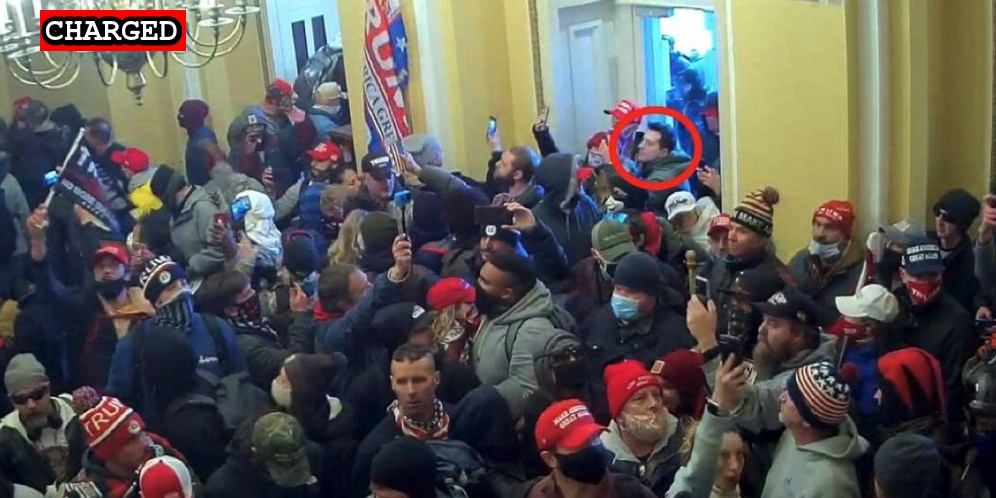
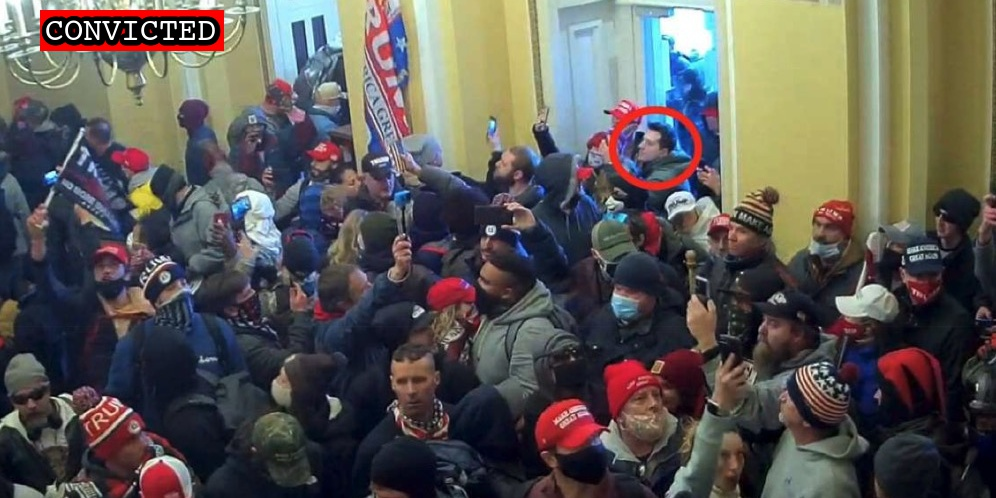
Latest import

Changed region(s): [[0.0311, 0.0, 0.249, 0.1205]]

diff --git a/commands/suspect-import.ts b/commands/suspect-import.ts
@@ -202,6 +202,10 @@ const importDoj = async (nameSet: Set<string>) => {
       continue;
     }
 
+    if (name === "AMBROSE, Lawerence Louis") {
+      name = "AMBROSE, Lawrence";
+    }
+
     if (name == "GALLGHER, Thomas") {
       name = "GALLAGHER, Thomas";
     }

diff --git a/docs/_suspects/john-gordon.md b/docs/_suspects/john-gordon.md
@@ -4,16 +4,16 @@ lastName: Gordon
 hashtag: InGodITrustRioter
 aka:
 residence: West Virginia
-status: Charged
+status: Convicted
 date: 2022-07-01
 charged: 2022-07-01
 indicted:
-convicted:
+convicted: 2022-10-28
 acquitted:
 sentenced:
 dismissed:
 deceased:
-plea_hearing:
+plea_hearing: 2022-10-28
 trial_date:
 trial_type:
 sentencing:
@@ -35,14 +35,22 @@ description: Click for latest case details. Suspects innocent until proven guilt
 author: seditiontrack
 layout: suspect
 published: true
-caseNumber: 21-cr-0342
+caseNumber: 22-cr-0343
 caseName:
 judge:
 videos:
 charges:
+  - code: 18 USC § 231(a)(3)
+    title: Obstruction of Law Enforcement During Civil Disorder
+    url: https://www.law.cornell.edu/uscode/text/18/231
+    felony: true
 sentence:
 ---
+
 - [News Report](https://www.cbsnews.com/pittsburgh/news/west-virginia-man-charged-with-felony-in-us-capitol-riot/)
 - [Complaint](https://www.justice.gov/usao-dc/case-multi-defendant/file/1518436/download)
 - [Statement of Facts](https://www.justice.gov/usao-dc/case-multi-defendant/file/1518441/download)
 - [DOJ Press Release](https://www.justice.gov/usao-dc/pr/west-virginia-man-arrested-actions-lower-west-terrace-during-jan-6-capitol-breach)
+- [Information](https://www.justice.gov/usao-dc/case-multi-defendant/file/1547996/download)
+- [Plea Agreement](https://www.justice.gov/usao-dc/case-multi-defendant/file/1547986/download)
+- [Statement of Offense](https://www.justice.gov/usao-dc/case-multi-defendant/file/1547991/download)

diff --git a/docs/_suspects/joshua-haynes.md b/docs/_suspects/joshua-haynes.md
@@ -4,11 +4,11 @@ lastName: Haynes
 hashtag: HarleySmashAOM
 aka:
 residence: Virginia
-status: Indicted
+status: Convicted
 date: 2021-07-01
 charged: 2021-07-01
 indicted: 2021-09-22
-convicted:
+convicted: 2022-10-28
 acquitted:
 sentenced:
 dismissed:
@@ -40,9 +40,16 @@ caseName: USA v. HAYNES
 judge: Tanya S. Chutkan
 videos:
 charges:
+  - code: 18 USC § 1512(c)(2),2
+    title: Obstruction of an Official Proceeding (Aiding and Abetting)
+    url: https://www.law.cornell.edu/uscode/text/18/1512
+    felony: true
 sentence:
 ---
+
 - [News Report](https://www.msn.com/en-us/news/crime/covington-man-arrested-charged-in-connection-with-capitol-attacks/ar-AALG1lP)
 - [Statement of Facts](https://www.justice.gov/usao-dc/case-multi-defendant/file/1408561/download)
 - [Incriminating Evidence (VIDEO)](https://vimeo.com/498179103)
-- [Indictment](https://extremism.gwu.edu/sites/g/files/zaxdzs2191/f/Joshua%20Dillon%20Haynes%20Indictment.pdf)
+- [Indictment](https://www.justice.gov/usao-dc/case-multi-defendant/file/1547981/download)
+- [Plea Agreement](https://www.justice.gov/usao-dc/case-multi-defendant/file/1547971/download)
+- [Statement of Offense](https://www.justice.gov/usao-dc/case-multi-defendant/file/1547976/download)

diff --git a/docs/_suspects/lawrence-ambrose.md b/docs/_suspects/lawrence-ambrose.md
@@ -4,16 +4,16 @@ lastName: Ambrose
 hashtag: MagaButtonMan
 aka:
 residence:
-status: Charged
+status: Convicted
 date: 2022-09-13
 charged: 2022-09-13
 indicted:
-convicted:
+convicted: 2022-10-25
 acquitted:
 sentenced:
 dismissed:
 deceased:
-plea_hearing:
+plea_hearing: 2022-10-25
 trial_date:
 trial_type:
 sentencing: 2023-02-16
@@ -22,7 +22,7 @@ age:
 occupation:
 affiliations:
 jurisdiction: Federal
-image: /images/preview/arrest.jpg
+image: /images/preview/convicted.jpg
 suspect: arrest.jpg
 booking:
 courtroom:
@@ -40,6 +40,12 @@ caseName: USA v. AMBROSE
 judge: Dabney L. Friedrich
 videos:
 charges:
+- code: 40 USC § 5104(e)(2)(G)
+  title: Parading, demonstrating or picketing in a Capitol building
+  url: https://www.law.cornell.edu/uscode/text/40/5104
+  felony: false
 sentence:
 ---
-- [Information](https://storage.courtlistener.com/recap/gov.uscourts.dcd.247234/gov.uscourts.dcd.247234.1.0.pdf)
+- [Information](https://www.justice.gov/usao-dc/case-multi-defendant/file/1548076/download)
+- [Plea Agreement](https://www.justice.gov/usao-dc/case-multi-defendant/file/1548081/download)
+- [Statement of Offense](https://www.justice.gov/usao-dc/case-multi-defendant/file/1548086/download)

diff --git a/docs/_suspects/anthony-moat.md b/docs/_suspects/anthony-moat.md
@@ -4,11 +4,11 @@ lastName: Moat
 hashtag: AnthonyMoat
 aka:
 residence: Pennsylvania
-status: Charged
+status: Convicted
 date: 2021-04-07
 charged: 2021-04-07
 indicted:
-convicted: 
+convicted: 2022-10-28
 acquitted:
 sentenced:
 dismissed: 
@@ -40,9 +40,15 @@ caseName: USA v. MOAT
 judge: Tanya S. Chutkan
 videos:
 charges:
+- code: 40 USC § 5104(e)(2)(G)
+  title: Parading, demonstrating or picketing in a Capitol building
+  url: https://www.law.cornell.edu/uscode/text/40/5104
+  felony: false
 sentence:
 ---
 - [News Report](https://lawandcrime.com/u-s-capitol-siege/prosecutors-file-charges-against-man-who-called-the-fbi-to-say-he-was-there-on-jan-6/)
 - [Complaint](https://www.justice.gov/usao-dc/case-multi-defendant/file/1385896/download)
 - [Statement of Facts](https://www.justice.gov/usao-dc/case-multi-defendant/file/1385901/download)
 - [Information](https://www.justice.gov/usao-dc/case-multi-defendant/file/1410821/download)
+- [Plea Agreement](https://www.justice.gov/usao-dc/case-multi-defendant/file/1548001/download)
+- [Statement of Offense](https://www.justice.gov/usao-dc/case-multi-defendant/file/1548006/download)
